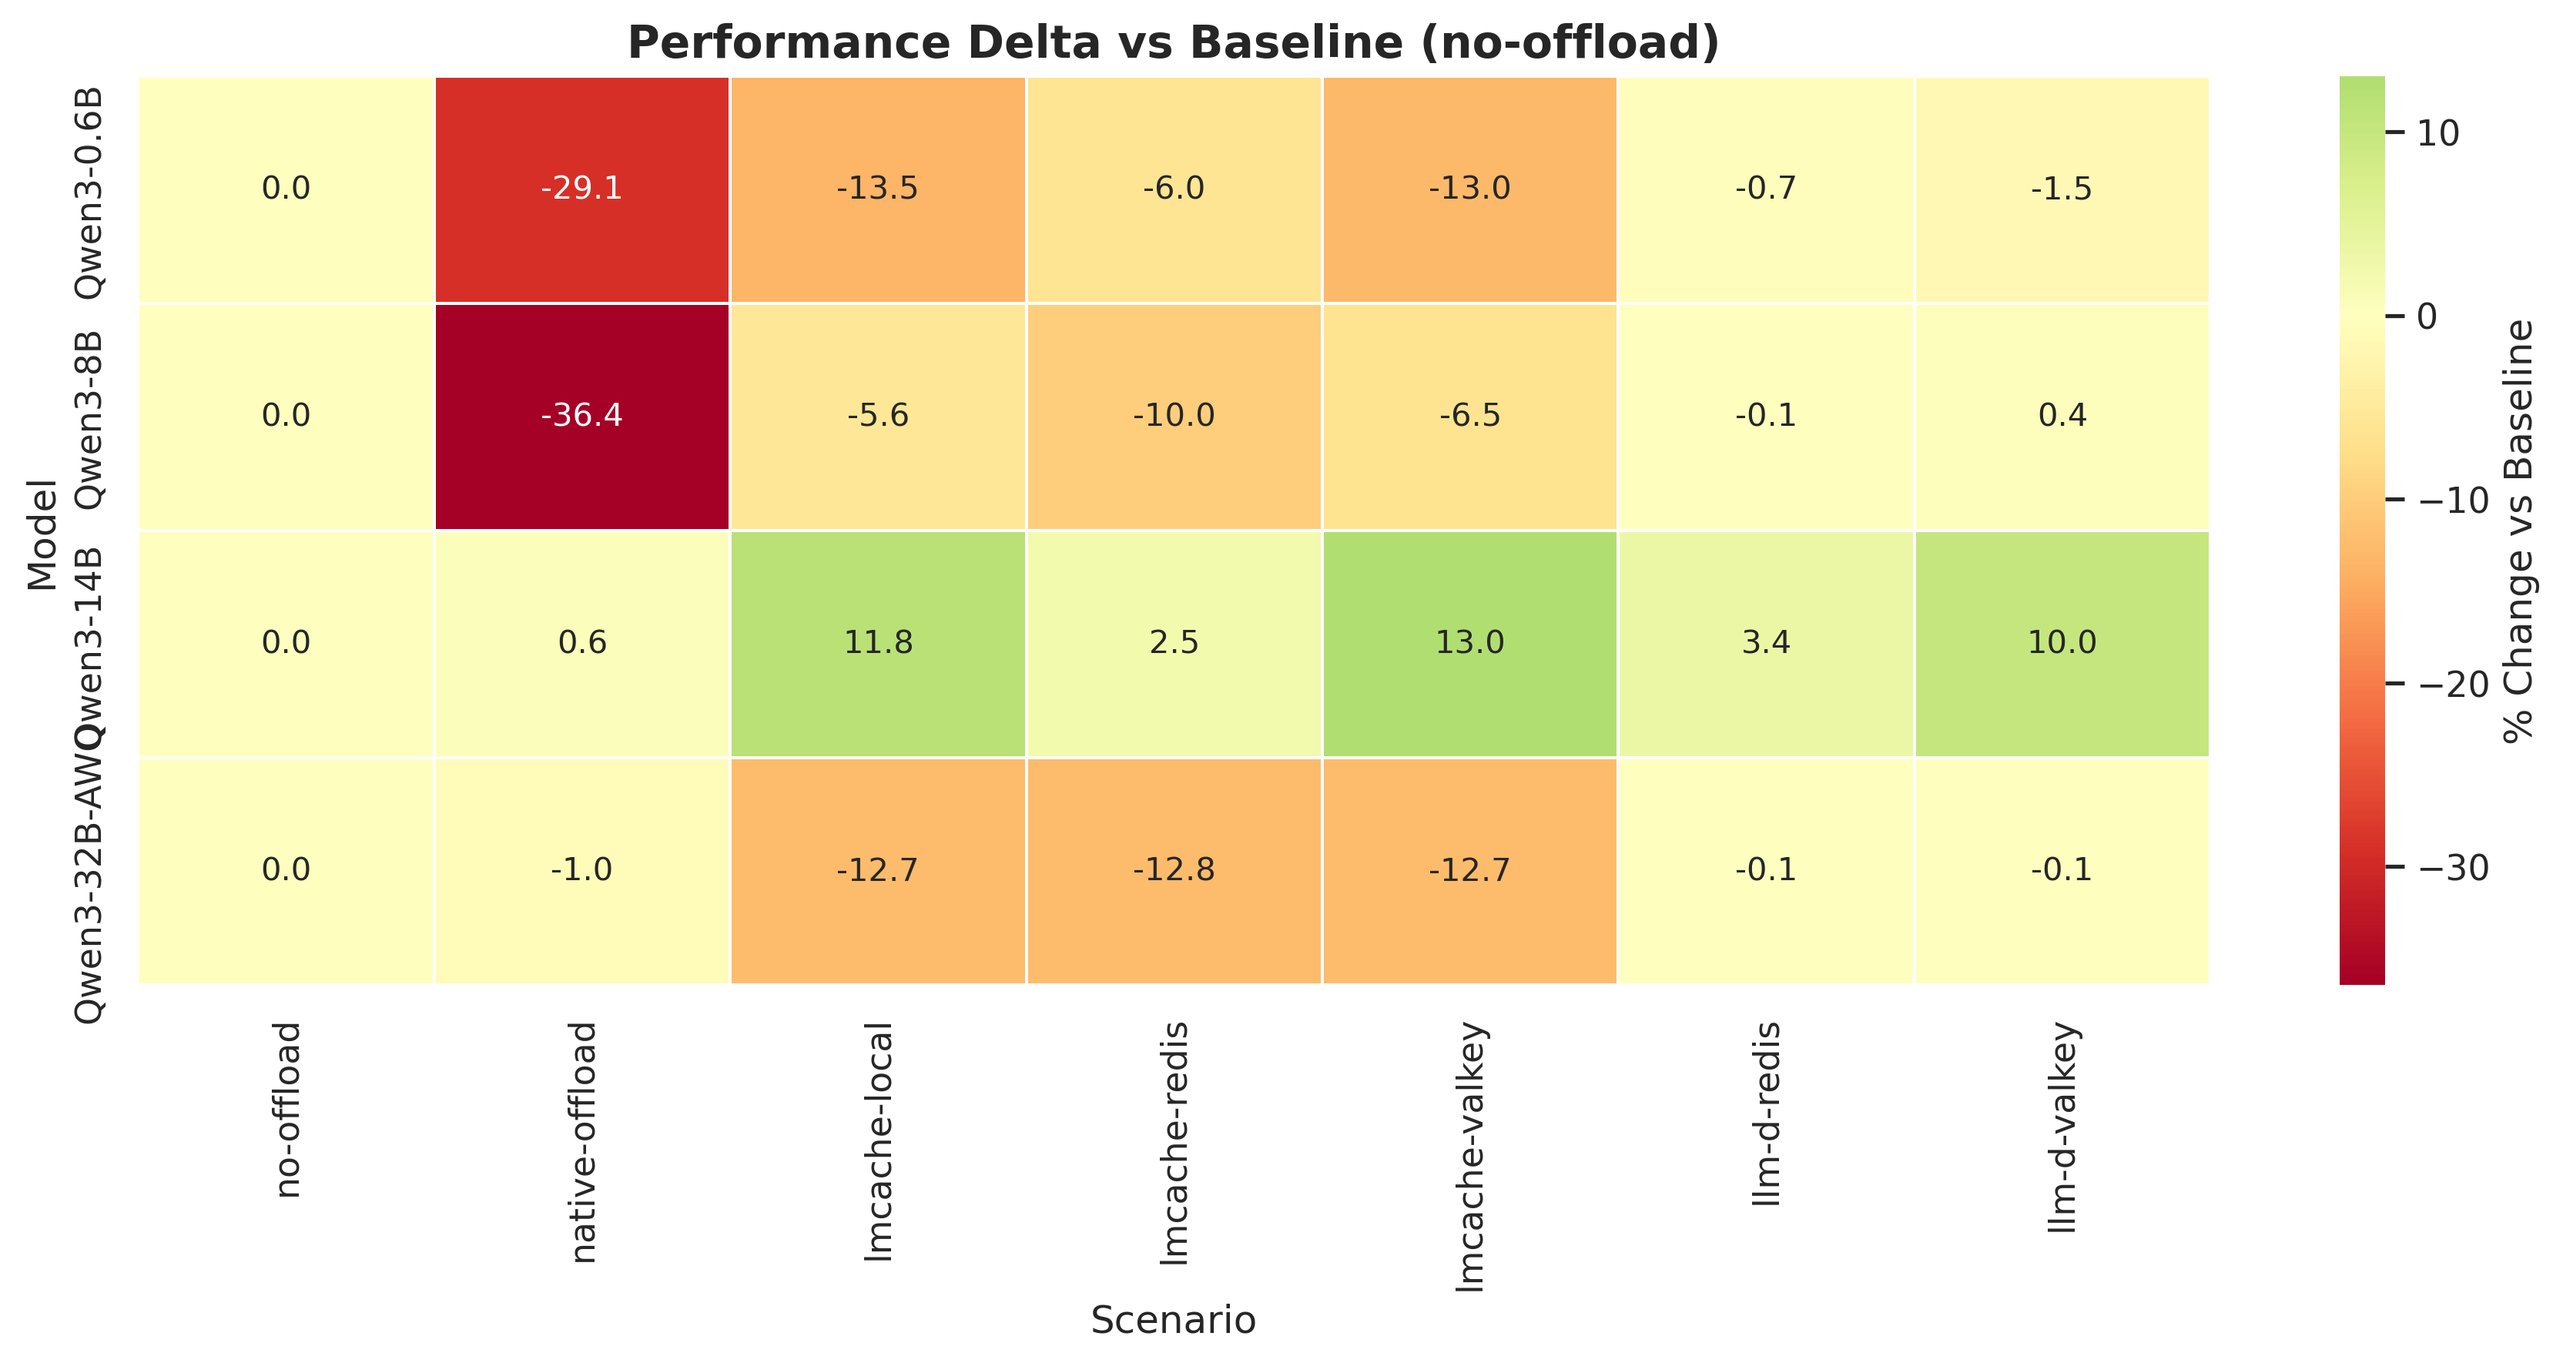
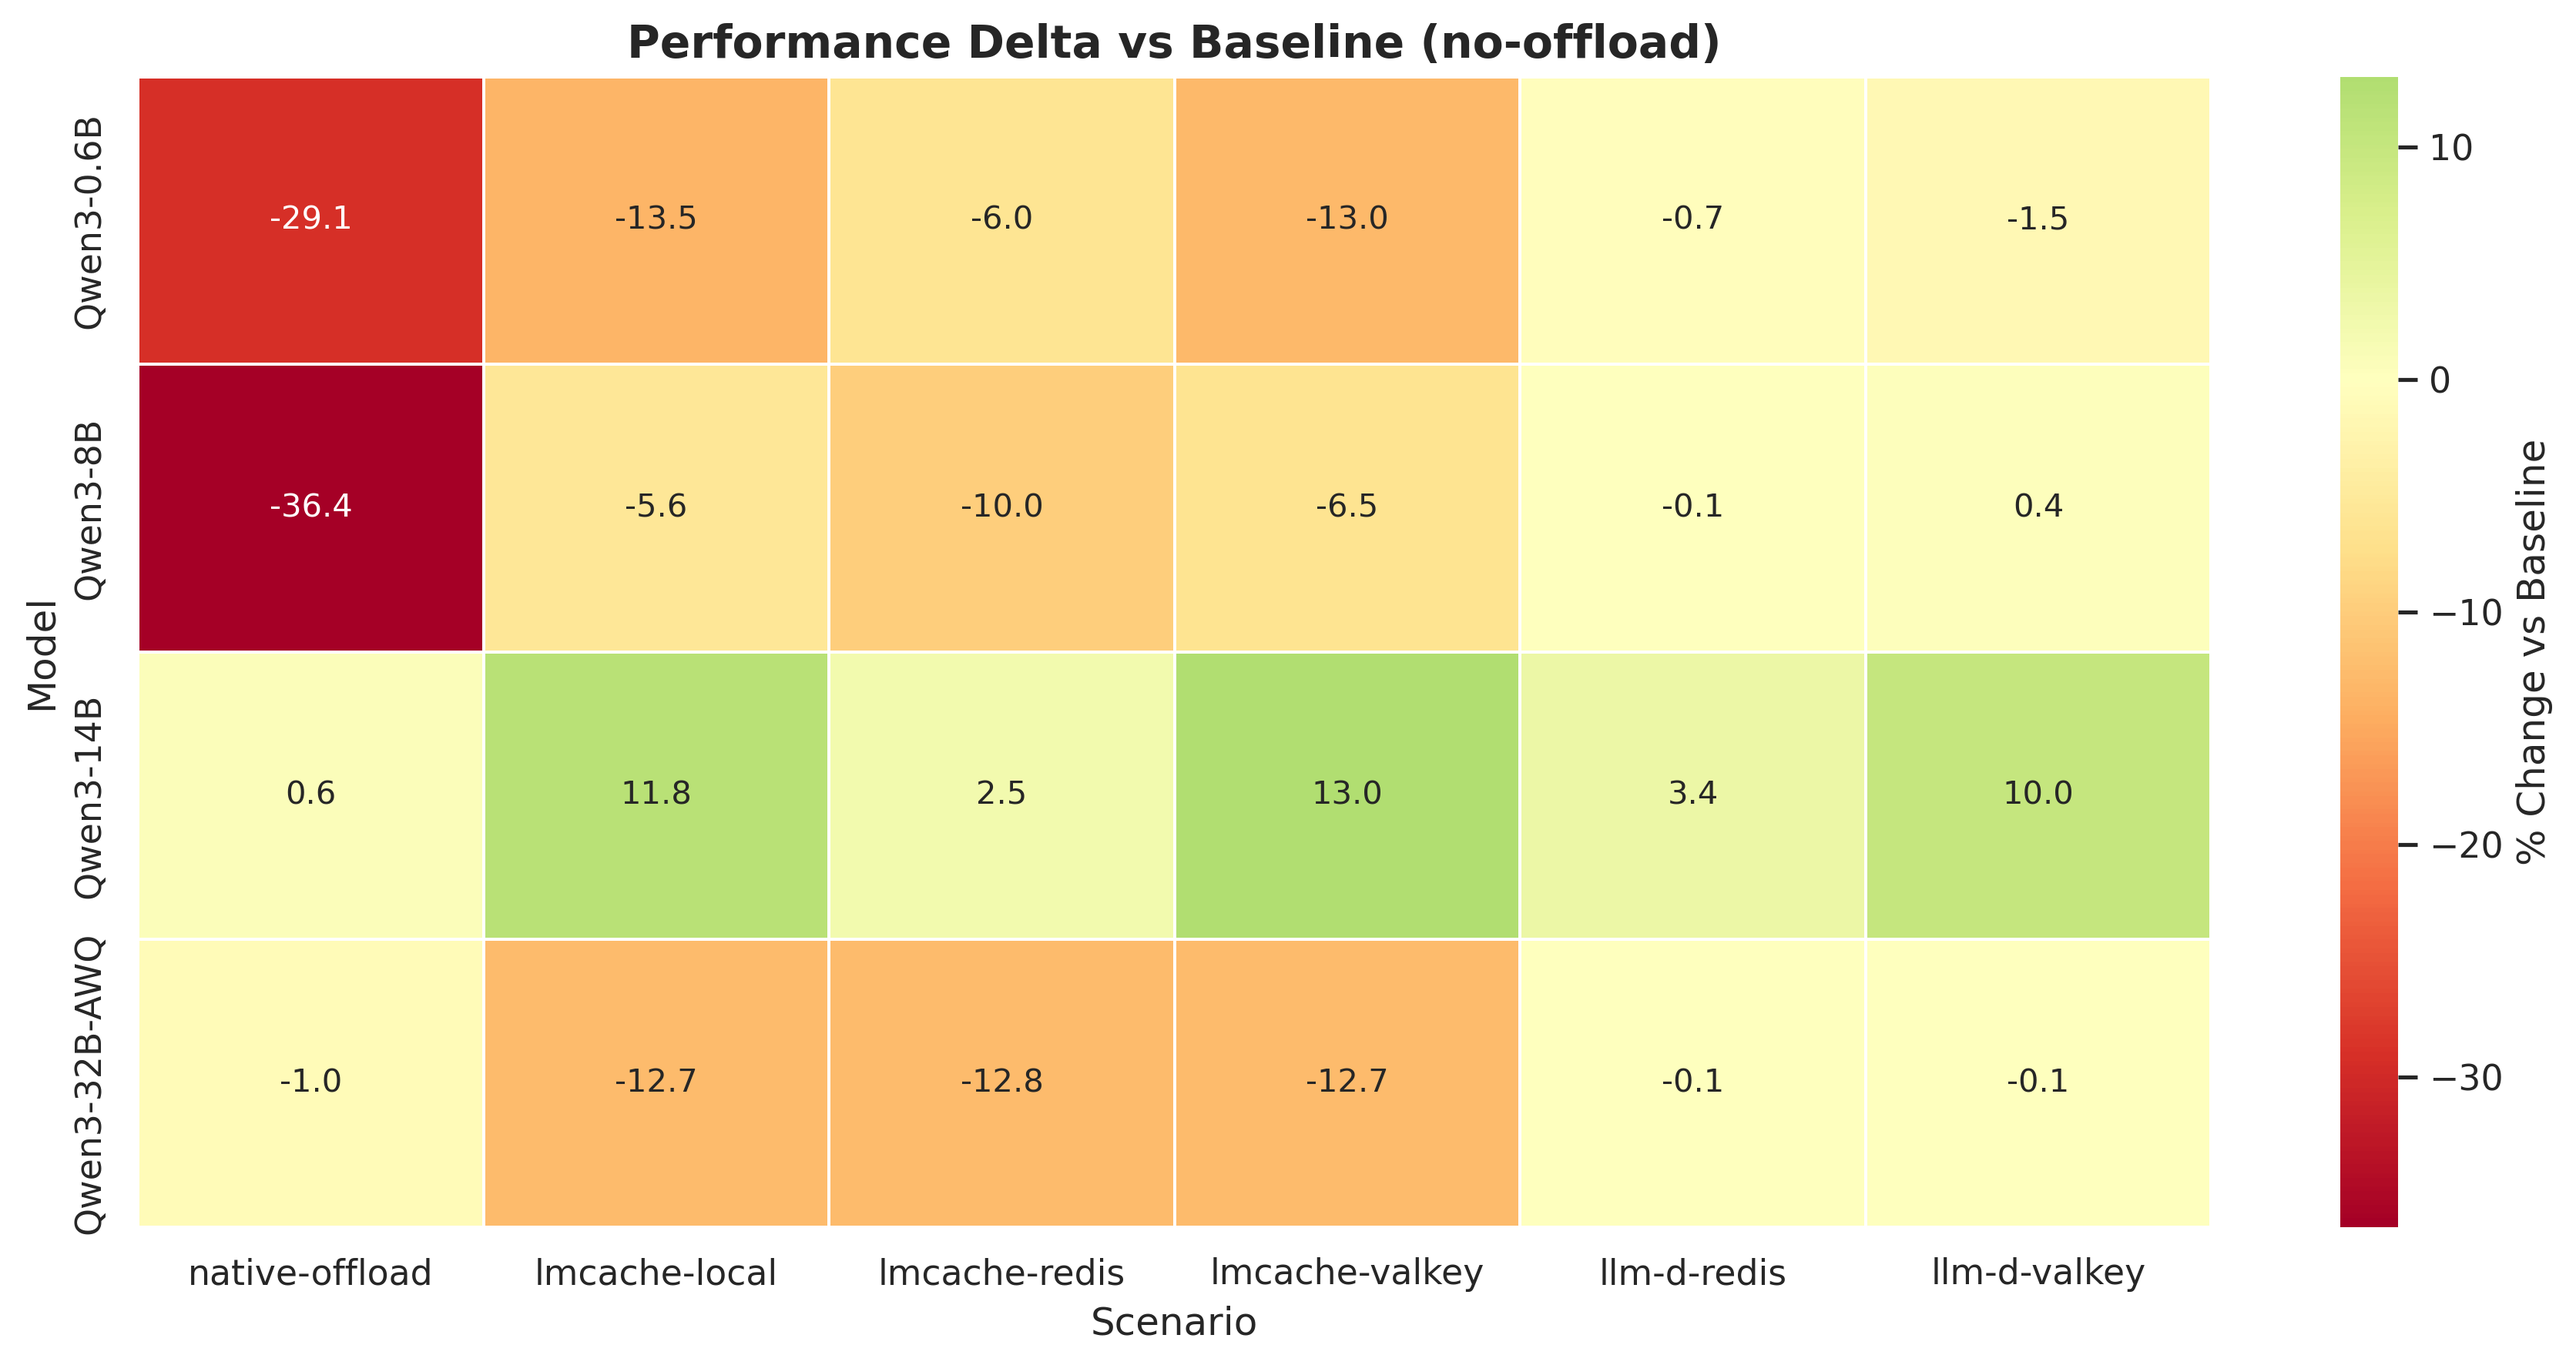
Simplify the perf delta heatmap by removing comparison-to-self

diff --git a/llm-d-kvcache-offload-eval/scripts/comprehensive-analysis.py b/llm-d-kvcache-offload-eval/scripts/comprehensive-analysis.py
@@ -351,6 +351,9 @@ def create_visualizations(df, peak_df):
     # 2. Performance delta heatmap vs baseline
     fig, ax = plt.subplots(figsize=(12, 6))
 
+    # Exclude 'no-offload' from heatmap (all zeros, comparing baseline to itself)
+    scenarios_for_heatmap = [s for s in SCENARIOS if s != 'no-offload']
+
     delta_data = []
     for model in MODEL_ORDER:
         model_peak = peak_df[peak_df['model'] == model]
@@ -362,7 +365,7 @@ def create_visualizations(df, peak_df):
         baseline_tps = baseline['output_tps_mean'].values[0]
 
         row = []
-        for scenario in SCENARIOS:
+        for scenario in scenarios_for_heatmap:
             scenario_data = model_peak[model_peak['scenario'] == scenario]
             if len(scenario_data) > 0:
                 tps = scenario_data['output_tps_mean'].values[0]
@@ -372,7 +375,7 @@ def create_visualizations(df, peak_df):
                 row.append(np.nan)
         delta_data.append(row)
 
-    delta_df = pd.DataFrame(delta_data, index=MODEL_ORDER, columns=SCENARIOS)
+    delta_df = pd.DataFrame(delta_data, index=MODEL_ORDER, columns=scenarios_for_heatmap)
 
     sns.heatmap(delta_df, annot=True, fmt='.1f', cmap='RdYlGn', center=0,
                 cbar_kws={'label': '% Change vs Baseline'},
